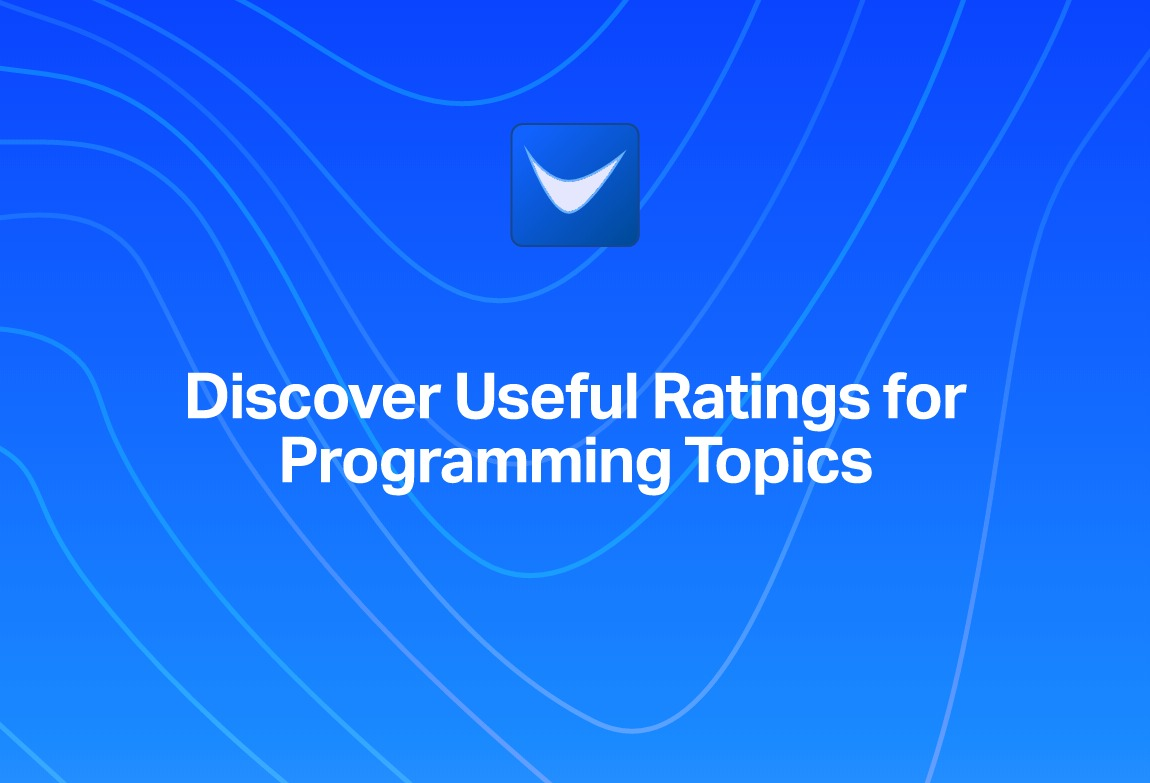
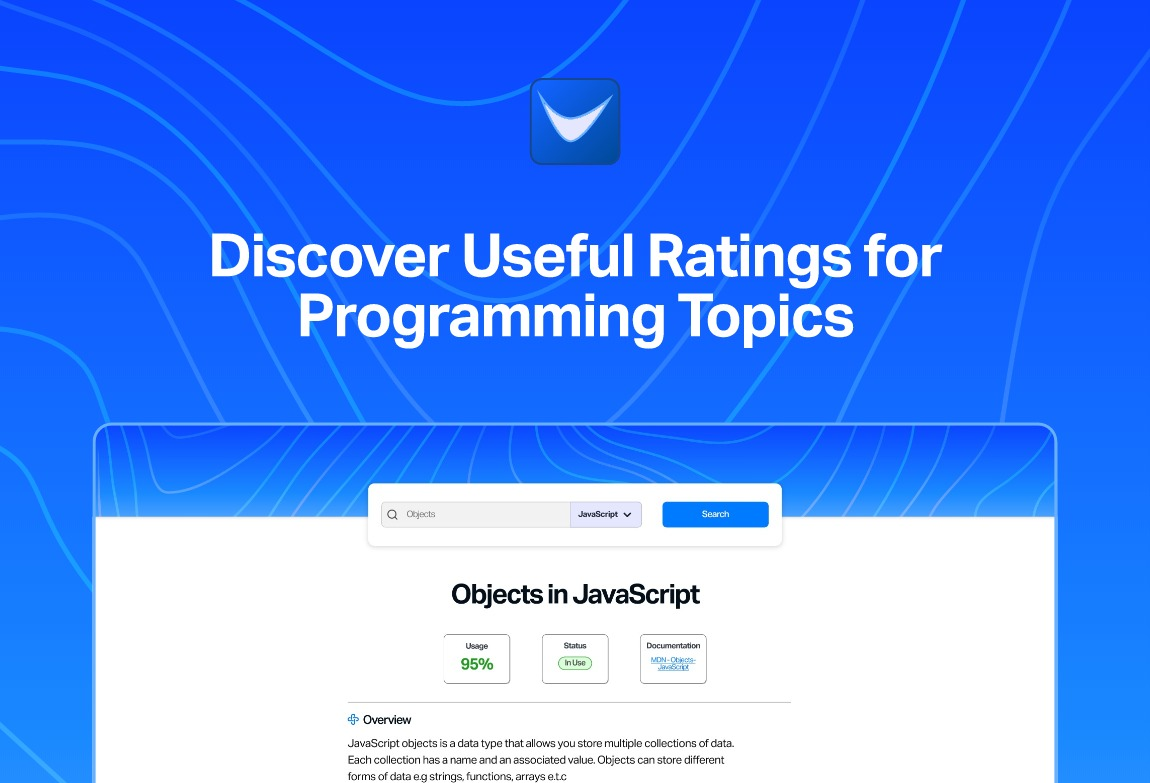
replaced og-image, updated readme

diff --git a/app/layout.js b/app/layout.js
@@ -3,7 +3,7 @@ import './globals.css'
 
 export const metadata = {
   title : "HowImportant | Discover Useful Ratings for Programming Topics",
-  description : "HowImportant is a web application that gives you information about various topics from different programming languages and it also gives ratings, documentation nad other useful information"
+  description : "HowImportant is a web application that gives you information about various topics from different programming languages and it also gives ratings, documentation, learning resources and other useful information"
 }
 
 export default function RootLayout({ children }) {

diff --git a/README.md b/README.md
@@ -1,3 +1,56 @@
+# <p style="text-align: center;">HowImportant</p>
+
+![howImportant](/app/opengraph-image.jpg)
+
+## Table of contents
+
+- [Overview](#overview)
+  - [Screenshot](#screenshot)
+  - [Link](#link)
+  - [Built with](#built-with)
+  - [Author](#author)
+
+## Overview
+HowImportant is a web application that gives you information about various topics from different programming languages and it also gives ratings, documentation,learning resources and other useful information.
+
+### Features
+
+Users are able to:
+
+- Search for a topic in a programming language
+
+- Get information about that topic; usage, documentation, youtube tutorials, overview e.t.c
+
+- Take a simple quiz related to that topic
+
+### Screenshot
+
+![screenshot of home page](/assets/images/preview-1.png)
+![screenshot of result of arrays in javascript](/assets/images/preview-2.png)
+
+
+### Link
+
+- Live Site URL: [HowImportant](https://howimportant-next.vercel.app/)
+
+
+### Built with
+
+- NextJS
+- ExpressJS
+- indexedDB for caching
+- Vanilla CSS
+- Design : invision Studio
+
+
+## Author
+- Twitter - [@daviddixx](https://www.twitter.com/dixx_david)
+
+
+<br />
+<br />
+<br />
+
 This is a [Next.js](https://nextjs.org/) project bootstrapped with [`create-next-app`](https://github.com/vercel/next.js/tree/canary/packages/create-next-app).
 
 ## Getting Started
